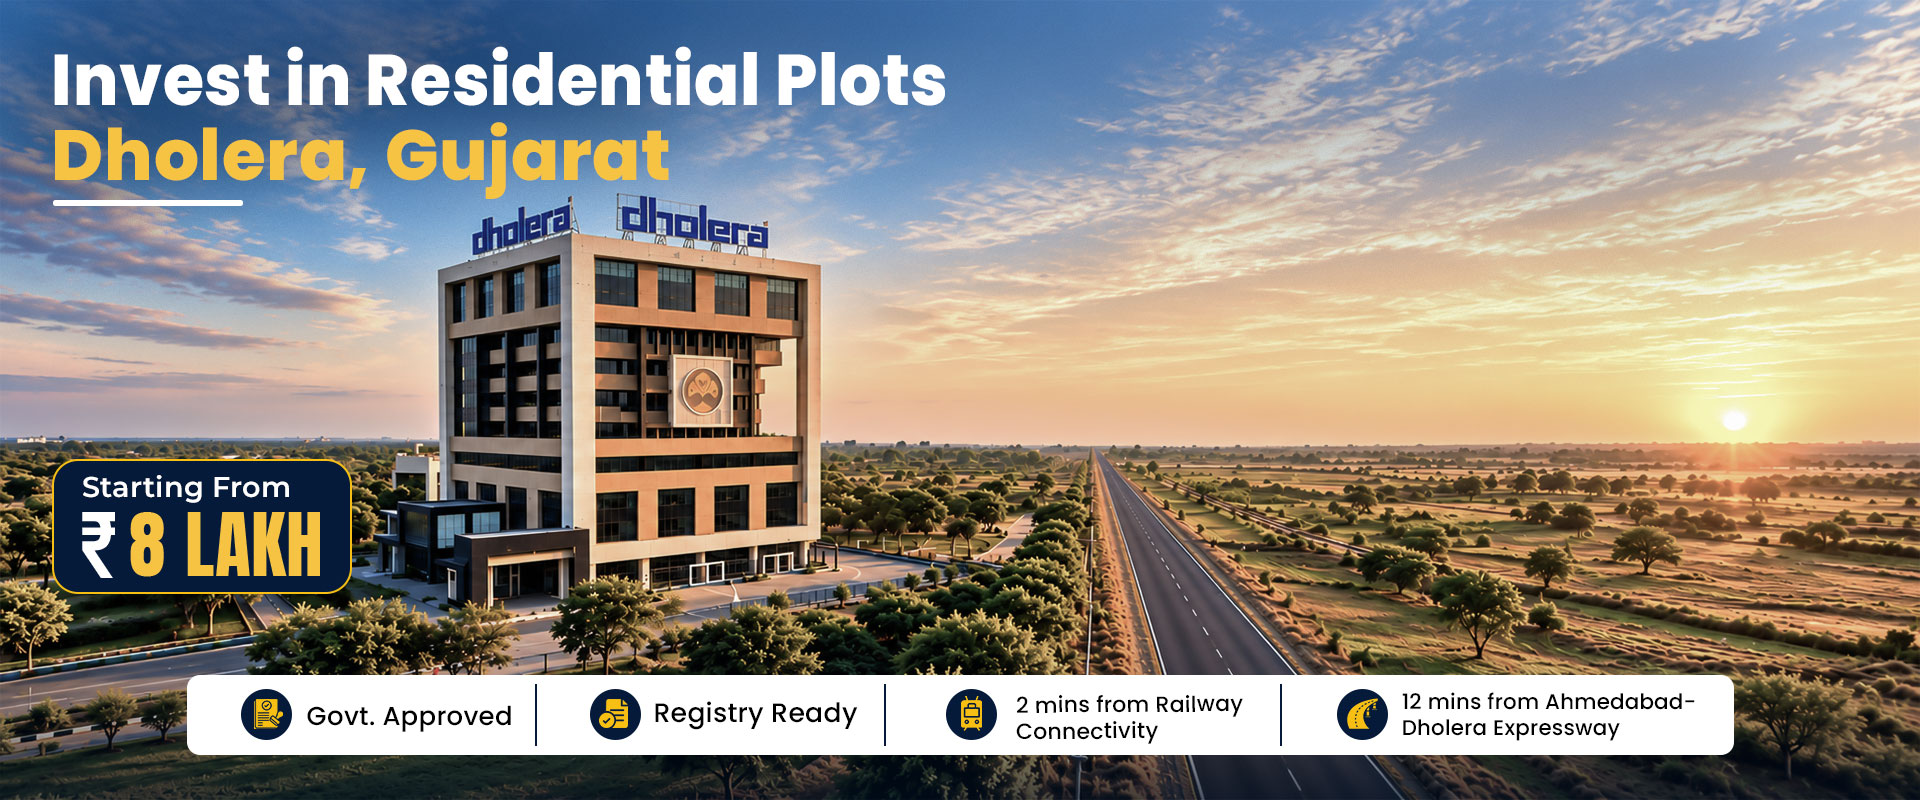
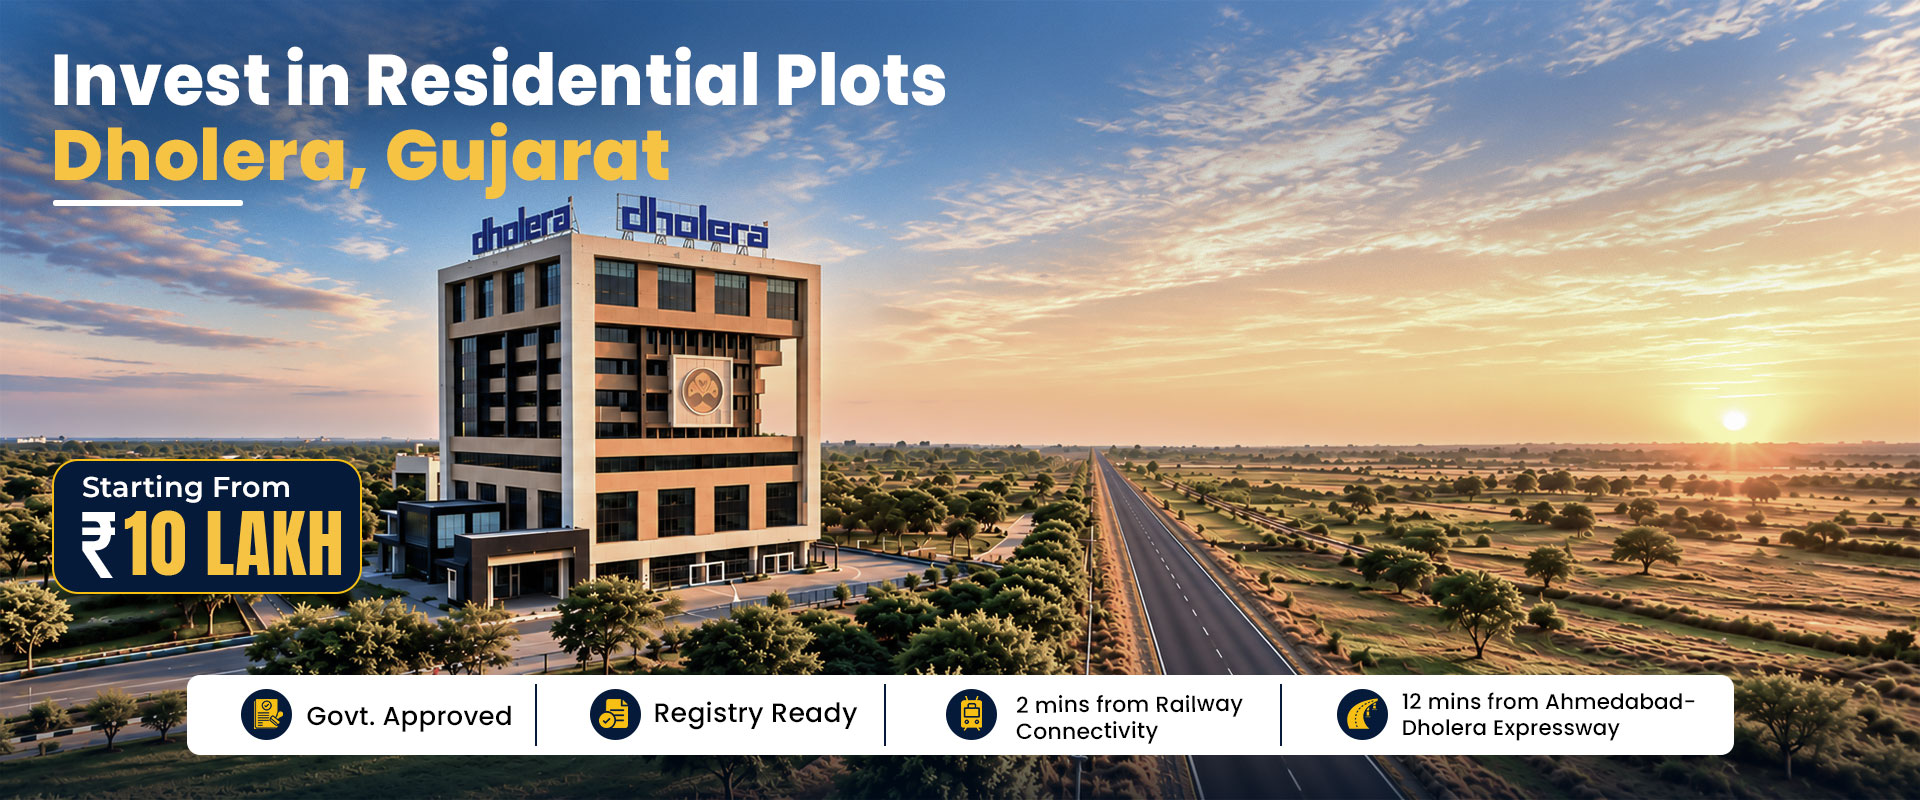
changes

Changed region(s): [[0.0625, 0.5625, 0.1875, 0.75]]

diff --git a/src/app/(moreInfo)/dholera-smart-city-plots/body/HeroSection.jsx b/src/app/(moreInfo)/dholera-smart-city-plots/body/HeroSection.jsx
@@ -339,7 +339,7 @@ export default function HeroSection() {
               "
               >
                 Residential Plots in Dholera from{" "}
-                <span className="whitespace-nowrap">&#8377;8 Lakh</span>
+                <span className="whitespace-nowrap">&#8377;10 Lakh</span>
               </h1>
 
               <p
